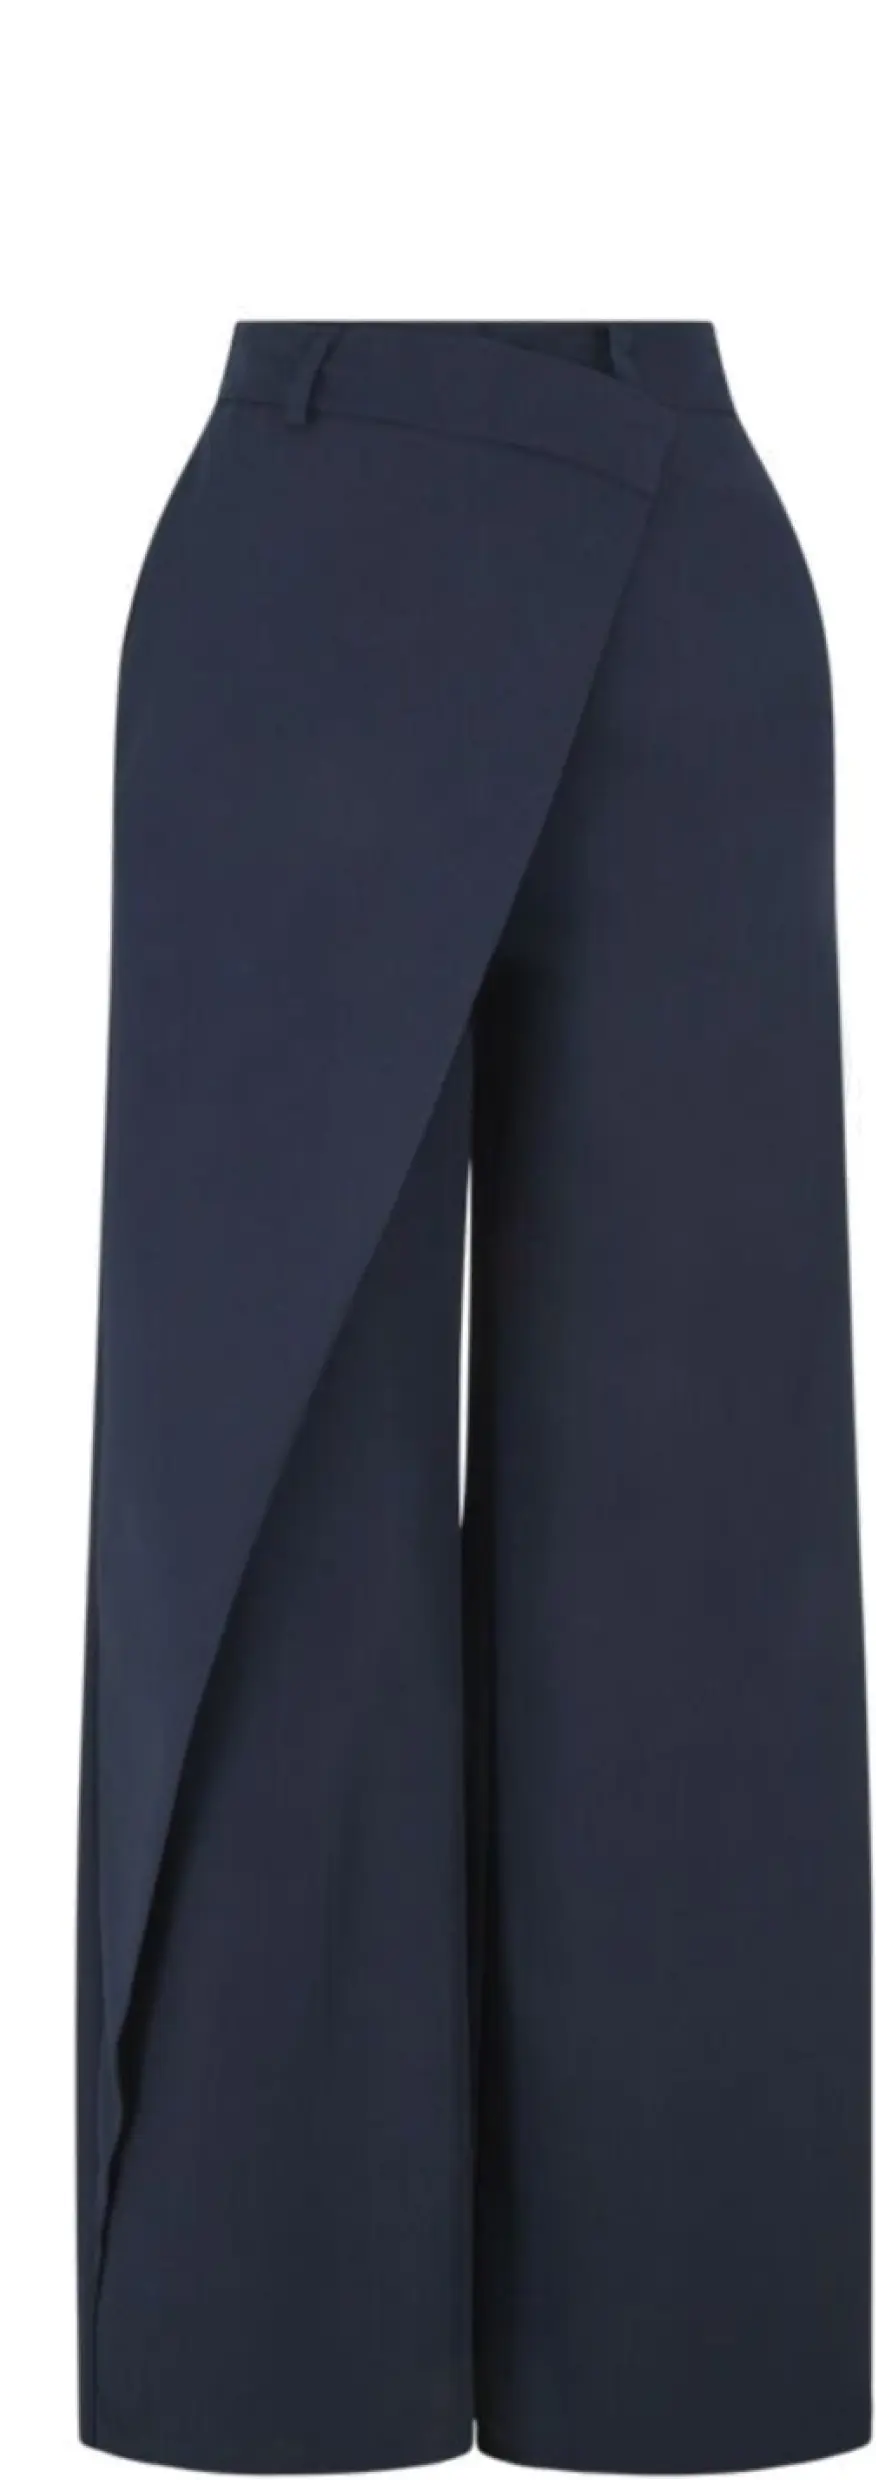
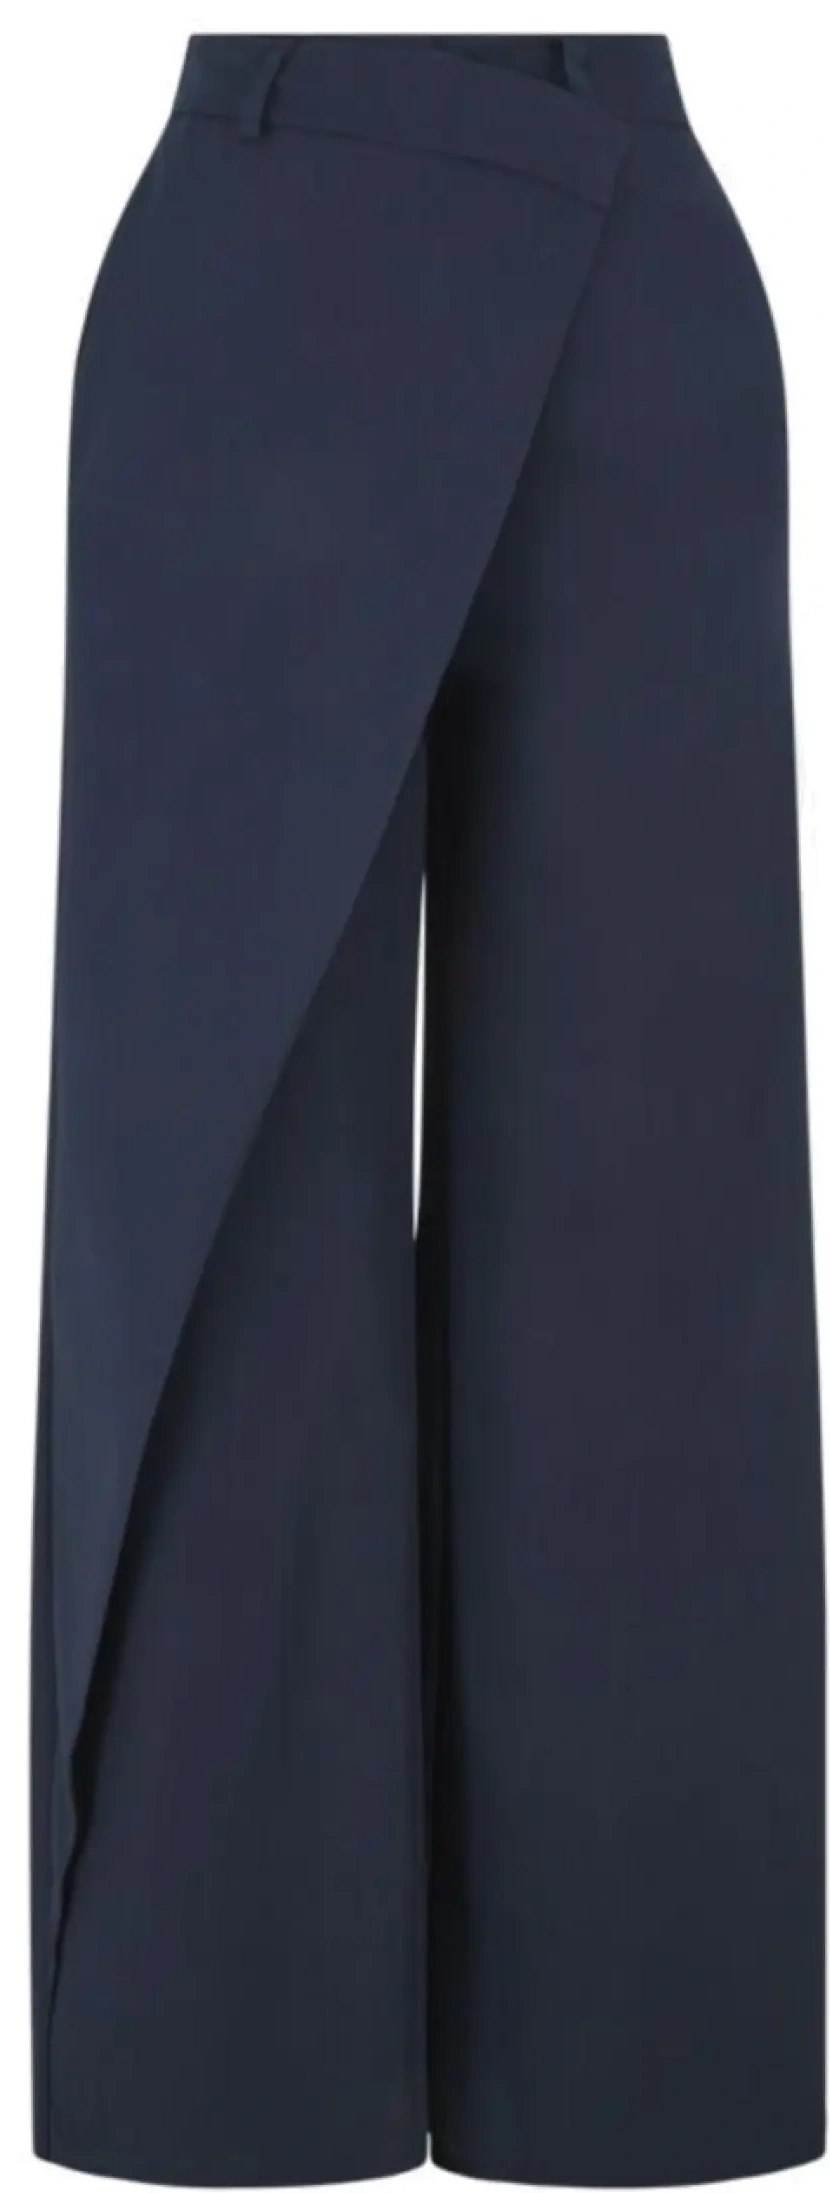
update JourneySection layout to include additional steps and updated imagery

diff --git a/src/modules/home/_components/JourneySection.tsx b/src/modules/home/_components/JourneySection.tsx
@@ -7,13 +7,40 @@ const JourneySection = () => {
     <>
       <section className="pt-21 relative bg-white">
         {/* Top Shadow Gradient Overlay */}
-        <Image
-          src={"/images/home-redesign/sub-footer-r.webp"}
-          width={400}
-          height={400}
-          alt="sub-footer"
-          className="absolute top-0 right-0"
-        />
+        <div className="absolute top-0 right-0 h-357.5 max-w-185 w-full">
+          <Image
+            src={"/images/home-redesign/sub-footer-r.webp"}
+            width={400}
+            height={400}
+            alt="sub-footer"
+            className="w-full h-full"
+          />
+          <div className="absolute opacity-54 z-30 bottom-37 right-30">
+            <h2
+              className="text-[255px] font-black text-[#EAE7E2] leading-none"
+              style={{ fontFamily: inter.style.fontFamily }}
+            >
+              3
+            </h2>
+          </div>
+          {/* Step 3 Sampling & Approval content */}
+          <div className="absolute -bottom-30 left-59 max-w-93.75 z-30">
+            <h3
+              className="text-lg font-bold"
+              style={{ fontFamily: montserrat.style.fontFamily }}
+            >
+              Sampling & Approval
+            </h3>
+            <p
+              style={{ fontFamily: montserrat.style.fontFamily }}
+              className="text-black mt-4 font-normal text-sm sm:text-base md:text-lg leading-[140%]"
+            >
+              Once the design concept is confirmed, we develop prototypes and
+              samples to ensure the perfect fit, comfort and final appearance
+              before production begins.
+            </p>
+          </div>
+        </div>
         <div className="absolute inset-x-0 top-0 h-12 pointer-events-none bg-linear-to-b from-black/6 to-transparent z-10" />
         <h3
           className="text-5xl leading-[150%] font-medium pl-10"
@@ -33,16 +60,16 @@ const JourneySection = () => {
               height={300}
               alt="sub-footer"
             />
-            <div className="absolute opacity-54 -top-10.25 -right-4 z-30">
+            <div className="absolute opacity-54 -top-9 -right-3 z-30">
               <h2
-                className="text-[300px] font-black text-[#EAE7E2] leading-none"
+                className="text-[255px] font-black text-[#EAE7E2] leading-none"
                 style={{ fontFamily: inter.style.fontFamily }}
               >
                 1
               </h2>
             </div>
           </div>
-          <div className="max-w-71.75">
+          <div className="max-w-71.75 relative z-20 -mt-20">
             <h3
               className="text-lg font-bold"
               style={{ fontFamily: montserrat.style.fontFamily }}
@@ -60,7 +87,34 @@ const JourneySection = () => {
             </p>
           </div>
         </div>
-        <div className="ml-22 mt-7.5 max-w-61.75">
+        <div>
+          <div className="absolute -mt-22 top-1/2 left-1/2 -translate-1/2 w-69 h-210 ">
+            <Image
+              src={"/images/home-redesign/sub-footer-c.webp"}
+              width={400}
+              height={400}
+              alt="sub-footer"
+              className="w-full h-full object-cover  translate-y-20"
+            />
+            <div className="absolute opacity-54 top-70 -left-28 z-30">
+              <h2
+                className="text-[255px] font-black text-[#EAE7E2] leading-none"
+                style={{ fontFamily: inter.style.fontFamily }}
+              >
+                2
+              </h2>
+            </div>
+            <div className="absolute opacity-54 -bottom-46 -left-37 z-30">
+              <h2
+                className="text-[255px] font-black text-[#EAE7E2] leading-none"
+                style={{ fontFamily: inter.style.fontFamily }}
+              >
+                4
+              </h2>
+            </div>
+          </div>
+        </div>
+        <div className="ml-22 mt-20 max-w-61.75 relative">
           <h3
             className="text-lg font-bold"
             style={{ fontFamily: montserrat.style.fontFamily }}
@@ -75,6 +129,59 @@ const JourneySection = () => {
             identity. From sketches and fabric selection to styling and
             functionality, every detail is carefully considered.
           </p>
+        </div>
+        <div className="ml-22 mt-113.75 max-w-71.75 relative">
+          <h3
+            className="text-lg font-bold"
+            style={{ fontFamily: montserrat.style.fontFamily }}
+          >
+            Sizing & Production
+          </h3>
+          <p
+            style={{ fontFamily: montserrat.style.fontFamily }}
+            className="text-black max-w-125 mt-4 font-normal text-sm sm:text-base md:text-lg leading-[140%]"
+          >
+            After sample approval, we collect sizing information for all team
+            members and coordinate the full production process with our
+            manufacturing partners.
+          </p>
+        </div>
+        <div className="relative w-full h-[456px] -translate-y-50">
+          {/* Centered Pants Image */}
+          <div className="absolute top-0 left-1/2 -translate-x-1/2 w-full max-w-54.75 h-full">
+            <Image
+              className="w-full h-full"
+              src={"/images/home-redesign/sub-footer-b.webp"}
+              width={300}
+              height={300}
+              alt="sub-footer"
+            />
+          </div>
+
+          {/* Step 5 Delivery Copy to the right of centered image */}
+          <div className="absolute left-[calc(50%+150px)] bottom-0 w-full max-w-72.75 z-20">
+            <div className="relative">
+              <h2
+                className="absolute opacity-54 -z-10 -top-70 left-0 text-[255px] font-black text-[#EAE7E2] leading-none"
+                style={{ fontFamily: inter.style.fontFamily }}
+              >
+                5
+              </h2>
+              <h3
+                className="text-lg font-bold"
+                style={{ fontFamily: montserrat.style.fontFamily }}
+              >
+                Delivery
+              </h3>
+              <p
+                style={{ fontFamily: montserrat.style.fontFamily }}
+                className="text-black mt-4 font-normal text-sm sm:text-base md:text-lg leading-[140%]"
+              >
+                The finished uniforms are quality-checked, organized and
+                delivered ready for your team to wear.
+              </p>
+            </div>
+          </div>
         </div>
       </section>
     </>
